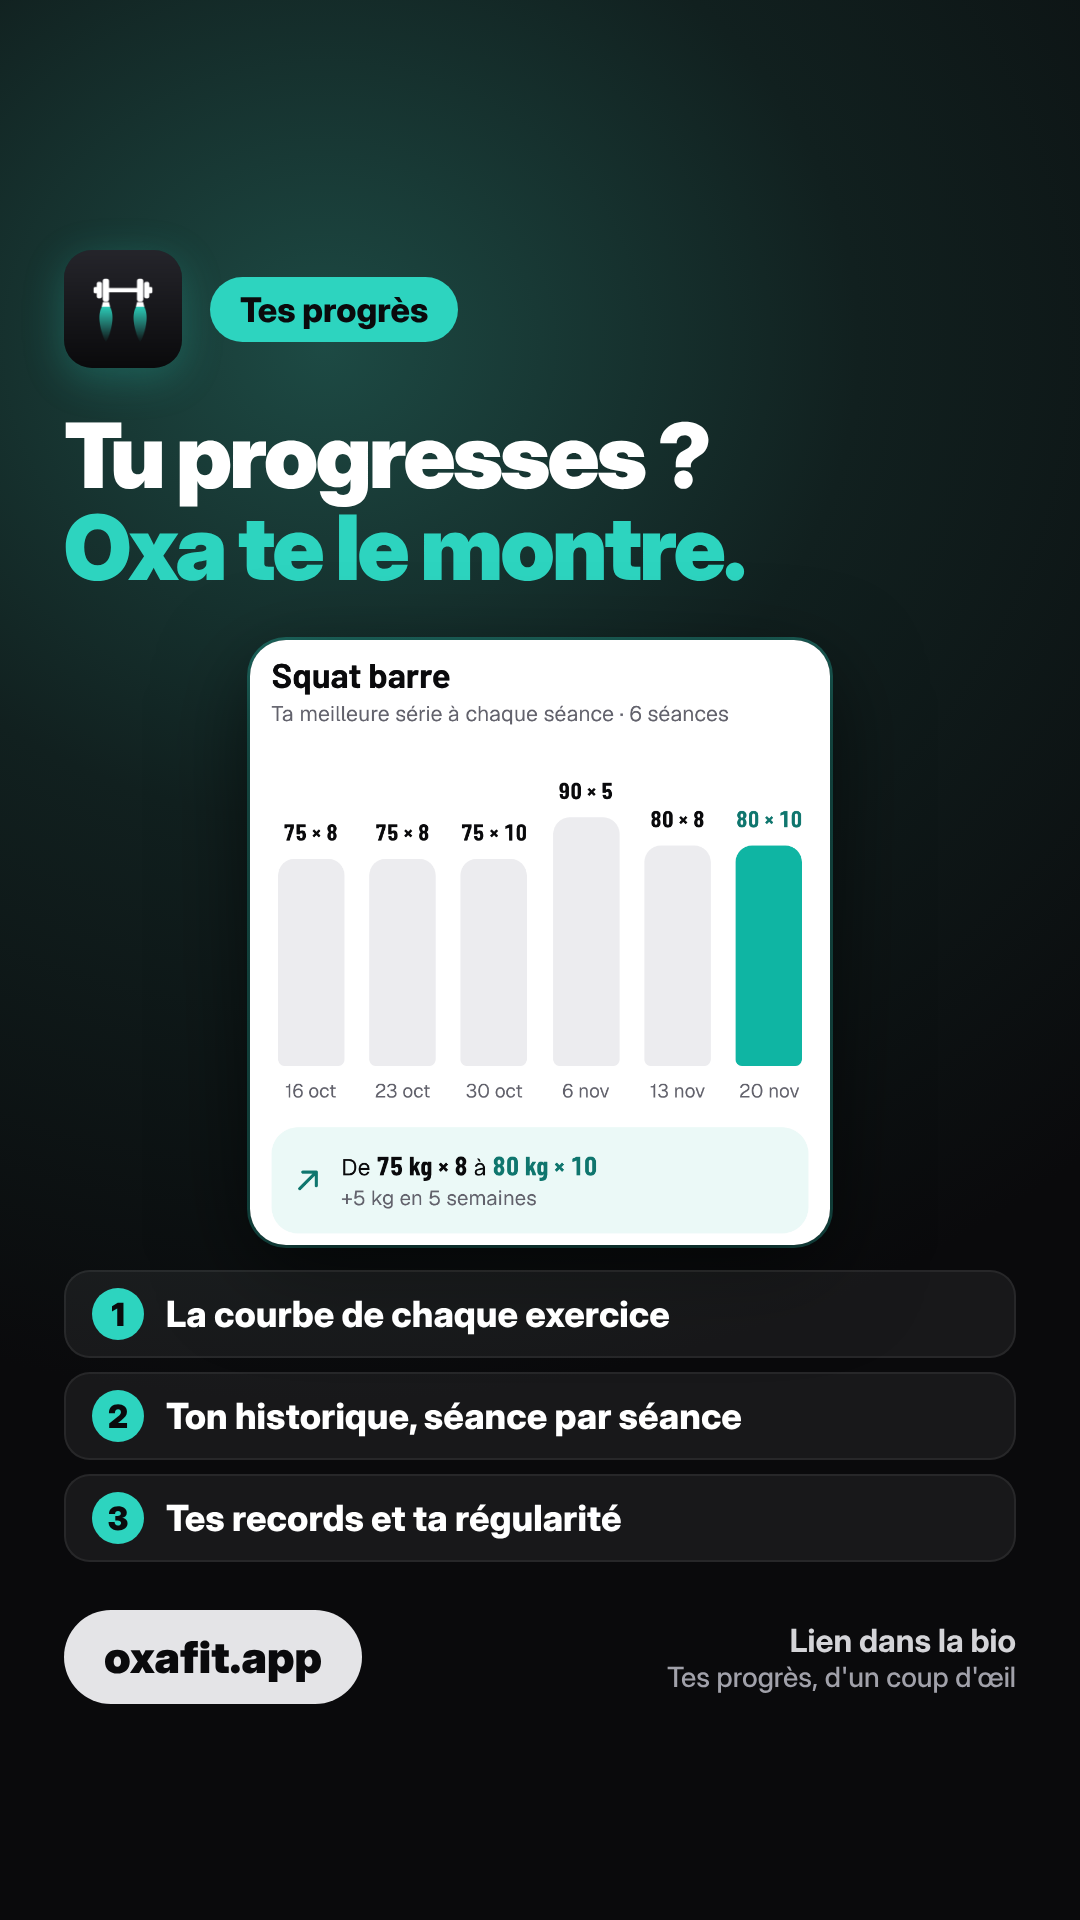
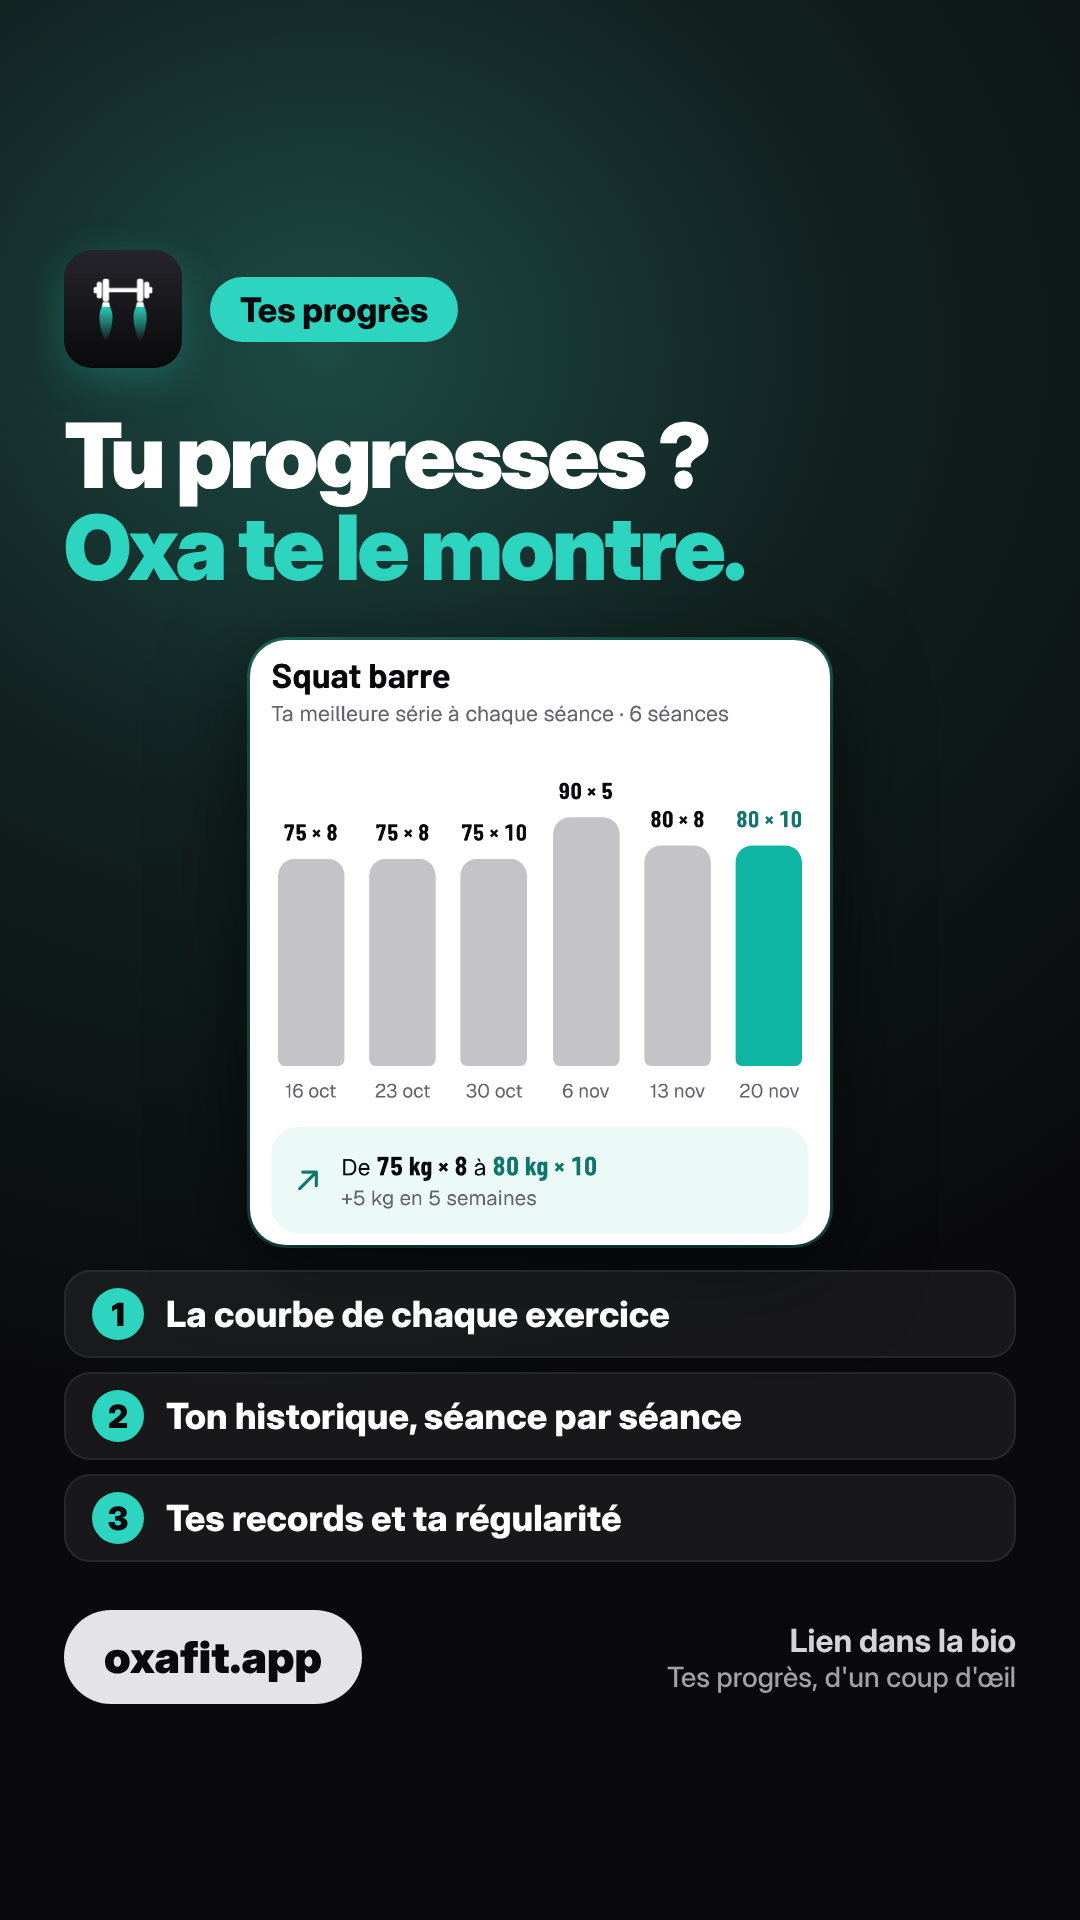
Réseaux : épinglée Progrès lisible après compression TikTok (#229)
* Réseaux : point d'entrée, journal des publications et enseignements

Claude-Session: https://claude.ai/code/session_01BxJGniwtrMazNWUFmXse8S

* Réseaux : stats du carrousel « La science dit » (meilleure publication)

Claude-Session: https://claude.ai/code/session_01BxJGniwtrMazNWUFmXse8S

* Réseaux : stats de la vidéo « Tu stagnes ? » (visionnage 1,6 s)

Claude-Session: https://claude.ai/code/session_01BxJGniwtrMazNWUFmXse8S

* Réseaux : déroulé de la vidéo « Tu stagnes ? » et version corrigée

Claude-Session: https://claude.ai/code/session_01BxJGniwtrMazNWUFmXse8S

* Réseaux : vidéos libres de droits autorisées, Walid n'apparaît pas

Claude-Session: https://claude.ai/code/session_01BxJGniwtrMazNWUFmXse8S

* Réseaux : carrousel courbatures non publié

Claude-Session: https://claude.ai/code/session_01BxJGniwtrMazNWUFmXse8S

* Réseaux : « La science dit » sans numéro

Claude-Session: https://claude.ai/code/session_01BxJGniwtrMazNWUFmXse8S

* Réseaux : carrousel « La science dit » sur les courbatures

Claude-Session: https://claude.ai/code/session_01BxJGniwtrMazNWUFmXse8S

* Réseaux : carrousel courbatures publié sur TikTok

Claude-Session: https://claude.ai/code/session_01BxJGniwtrMazNWUFmXse8S

* Réseaux : Reel « Soulever lourd va me rendre trop musclée ? »

Claude-Session: https://claude.ai/code/session_01BxJGniwtrMazNWUFmXse8S

* Réseaux : Reel moins zoomé (vidéo entière au centre, fond flouté)

Claude-Session: https://claude.ai/code/session_01BxJGniwtrMazNWUFmXse8S
[…]

Changed region(s): [[0.2444, 0.4062, 0.6722, 0.5625]]

diff --git a/docs/reseaux/enseignements.md b/docs/reseaux/enseignements.md
@@ -53,6 +53,10 @@ avec la date et la source (fichier de stats). Rayer ou supprimer ce qui est cont
     (dernière fois, records, progression), plus du coaching ni de la création de séance. Chaque pack contient
     un appel aux testeurs (« Commente TEST ») et chaque lien envoyé porte une étiquette `?src=`.
 
+- Captures de l'app : TikTok compresse les images et efface les gris très pâles (les barres grises de Progrès, #ECECEF
+  sur blanc, ont disparu sur l'épinglée du 25 nov.). Foncer les gris pâles (vers #C4C4C8) avant de publier, et vérifier
+  l'image après une forte compression JPEG.
+
 ## Chiffres à demander à chaque relevé
 - TikTok : durée moyenne de visionnage, % regardé en entier, visites du profil, nouveaux followers ;
   pour un carrousel, photos vues sur 6 et temps de lecture total.
